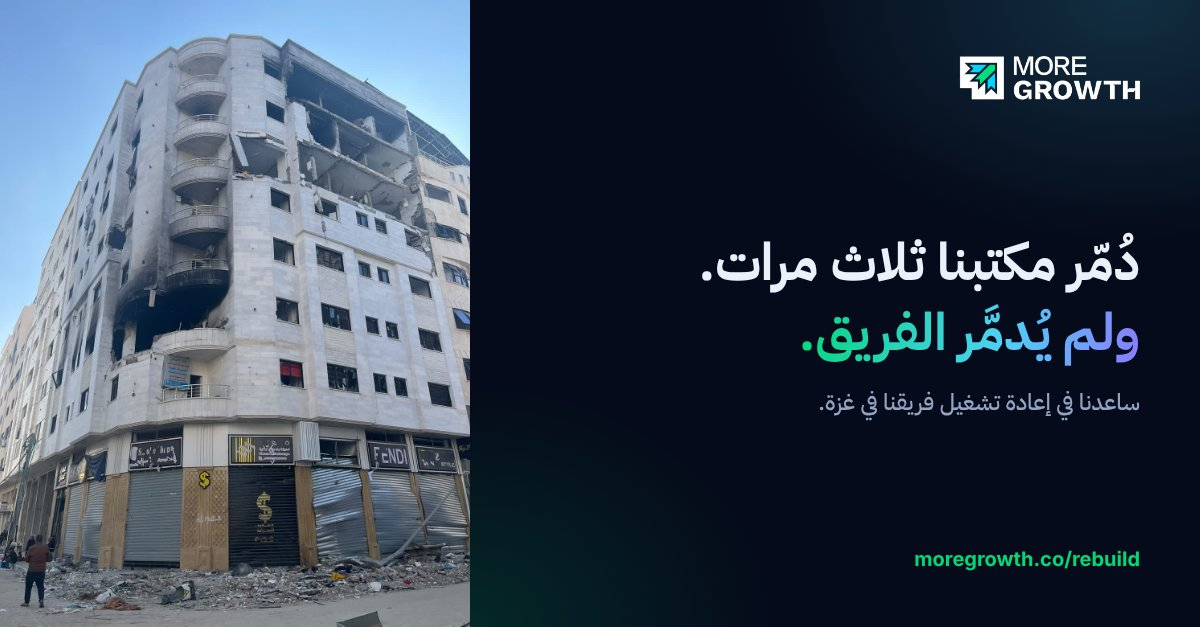
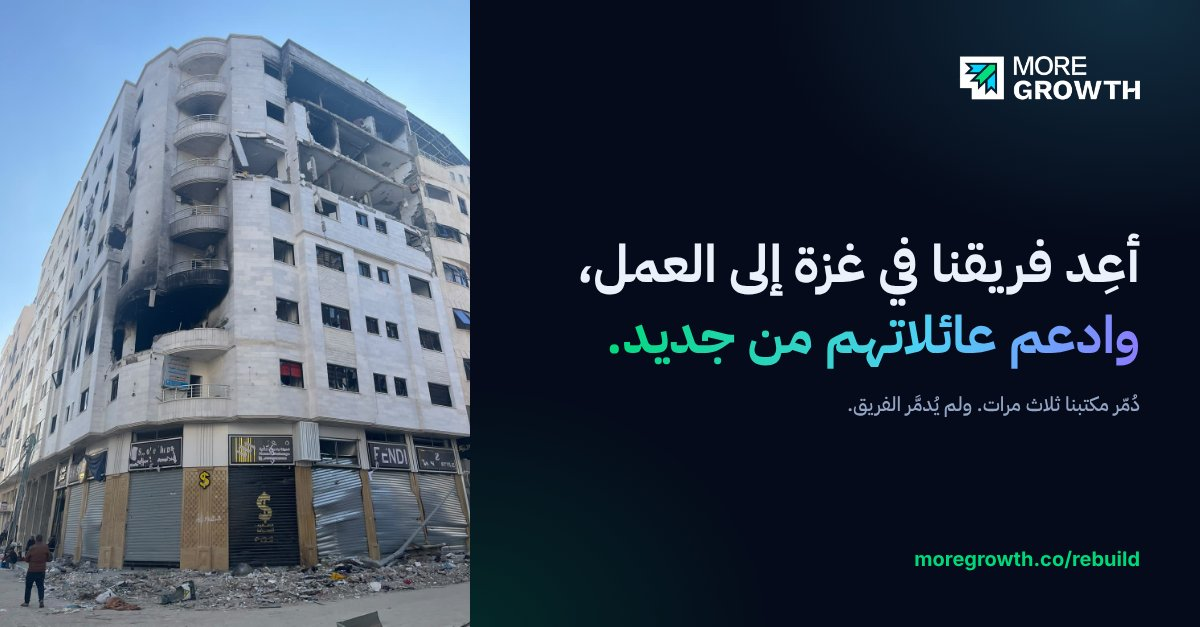
Rebuild hero: call-to-action headline, 'destroyed three times' as subline; refresh share images
Claude-Session: https://claude.ai/code/session_011795yFAXq3G7xLFwbokTXE

Changed region(s): [[0.4625, 0.3636, 0.9558, 0.6061], [0.6783, 0.6364, 0.9558, 0.6667]]

diff --git a/rebuild/index.html b/rebuild/index.html
@@ -65,7 +65,8 @@
   <div class="wrap rb-hero-grid">
     <div>
       <p class="kicker">نعيد البناء</p>
-      <h1>دُمّر مكتبنا ثلاث مرات.<br><span class="grad">ولم يُدمَّر الفريق.</span></h1>
+      <h1>أعِد فريقنا في غزة إلى العمل،<br><span class="grad">وادعم عائلاتهم من جديد.</span></h1>
+      <p class="rb-hsub">دُمّر مكتبنا ثلاث مرات. ولم يُدمَّر الفريق.</p>
       <p class="rb-lead">مورجروث للحلول الرقمية شركة تسويق رقمي من غزة، وشريك معتمد من Google منذ 2020. نجمع 67,200 دولار لتغطية ستة أشهر من التكاليف الجارية، حتى نعيد تشغيل فريقنا في غزة ونقف على أقدامنا من جديد.</p>
       <div class="rb-meter" role="img" aria-label="0 / 67200"><div class="rb-meter-bar"><i style="--w:1%"></i></div><p><b>67,200$</b> · تنطلق الحملة قريبًا</p></div>
       <div class="rb-ctas"><a class="btn btn-primary" href="#support" data-rb-cta>ادعم عودة الفريق <svg class="arrow" viewBox="0 0 24 24" aria-hidden="true" fill="none" stroke="currentColor" stroke-width="2" stroke-linecap="round" stroke-linejoin="round"><path d="M5 12h14M13 6l6 6-6 6"/></svg></a><a class="btn btn-ghost" href="#story">اقرأ قصتنا</a></div>

diff --git a/en/rebuild/index.html b/en/rebuild/index.html
@@ -65,7 +65,8 @@
   <div class="wrap rb-hero-grid">
     <div>
       <p class="kicker">Rebuild MoreGrowth</p>
-      <h1>Our office was destroyed three times.<br><span class="grad">Our team was not.</span></h1>
+      <h1>Bring our Gaza team back to work,<br><span class="grad">and support their families again.</span></h1>
+      <p class="rb-hsub">Our office was destroyed three times. Our team was not.</p>
       <p class="rb-lead">MoreGrowth Digital Solutions is a digital marketing agency from Gaza and a Google Partner since 2020. We are raising $67,200 to cover six months of running costs, so we can restart our Gaza team and stand on our own feet again.</p>
       <div class="rb-meter" role="img" aria-label="0 / 67200"><div class="rb-meter-bar"><i style="--w:1%"></i></div><p><b>$67,200</b> · Campaign opens soon</p></div>
       <div class="rb-ctas"><a class="btn btn-primary" href="#support" data-rb-cta>Back our comeback <svg class="arrow" viewBox="0 0 24 24" aria-hidden="true" fill="none" stroke="currentColor" stroke-width="2" stroke-linecap="round" stroke-linejoin="round"><path d="M5 12h14M13 6l6 6-6 6"/></svg></a><a class="btn btn-ghost" href="#story">Read our story</a></div>

diff --git a/assets/rebuild.css b/assets/rebuild.css
@@ -13,7 +13,7 @@
 /* hero */
 .rb-hero{padding:140px 0 30px}
 .rb-hero-grid{display:grid;grid-template-columns:minmax(0,1.15fr) minmax(0,.85fr);gap:48px;align-items:center}
-.rb-hero h1{font-size:clamp(32px,4.6vw,56px);line-height:1.2;margin:0 0 18px}
+.rb-hero h1{font-size:clamp(30px,4vw,50px);line-height:1.2;margin:0 0 18px}
 .rb-lead{color:var(--muted);font-size:18px;max-width:640px;margin:0 0 26px}
 .rb-meter{max-width:560px;margin:0 0 26px}
 .rb-meter-bar{height:10px;border-radius:99px;background:var(--surface-2,rgba(255,255,255,.08));overflow:hidden;border:1px solid var(--rb-border)}
@@ -121,3 +121,4 @@
   .rb-sec{padding-top:56px}
   .rb-stats>div{padding:16px}
 }
+.rb-hsub{font-size:clamp(19px,2vw,24px);font-weight:700;color:var(--text);margin:0 0 12px;padding-inline-start:14px;border-inline-start:3px solid var(--green)}

diff --git a/_source/rebuild.py b/_source/rebuild.py
@@ -37,7 +37,8 @@ T = {
     title="نعيد البناء | ادعم عودة فريق مورجروث في غزة",
     desc="دُمّر مكتبنا في غزة ثلاث مرات. ساعدنا في تغطية ستة أشهر من التكاليف الجارية لنعيد تشغيل فريقنا ونتوسع في المنطقة العربية.",
     kicker="نعيد البناء",
-    h1="دُمّر مكتبنا ثلاث مرات.<br><span class=\"grad\">ولم يُدمَّر الفريق.</span>",
+    h1="أعِد فريقنا في غزة إلى العمل،<br><span class=\"grad\">وادعم عائلاتهم من جديد.</span>",
+    sub="دُمّر مكتبنا ثلاث مرات. ولم يُدمَّر الفريق.",
     lead="مورجروث للحلول الرقمية شركة تسويق رقمي من غزة، وشريك معتمد من Google منذ 2020. نجمع 67,200 دولار لتغطية ستة أشهر من التكاليف الجارية، حتى نعيد تشغيل فريقنا في غزة ونقف على أقدامنا من جديد.",
     cta="ادعم عودة الفريق", cta2="اقرأ قصتنا",
     raised="جُمع حتى الآن", of="من هدف", supporters="داعمًا", soon="تنطلق الحملة قريبًا",
@@ -86,7 +87,8 @@ T = {
     title="Rebuild MoreGrowth | Help our Gaza team get back to work",
     desc="Our office in Gaza was destroyed three times. Help us cover six months of running costs to restart our team and grow across the Arab region.",
     kicker="Rebuild MoreGrowth",
-    h1="Our office was destroyed three times.<br><span class=\"grad\">Our team was not.</span>",
+    h1="Bring our Gaza team back to work,<br><span class=\"grad\">and support their families again.</span>",
+    sub="Our office was destroyed three times. Our team was not.",
     lead="MoreGrowth Digital Solutions is a digital marketing agency from Gaza and a Google Partner since 2020. We are raising $67,200 to cover six months of running costs, so we can restart our Gaza team and stand on our own feet again.",
     cta="Back our comeback", cta2="Read our story",
     raised="raised so far", of="of", supporters="supporters", soon="Campaign opens soon",
@@ -164,6 +166,7 @@ def body(lang, t):
     <div>
       <p class="kicker">{t["kicker"]}</p>
       <h1>{t["h1"]}</h1>
+      <p class="rb-hsub">{t["sub"]}</p>
       <p class="rb-lead">{t["lead"]}</p>
       <div class="rb-meter" role="img" aria-label="{RAISED} / {GOAL}"><div class="rb-meter-bar"><i style="--w:{max(pct,1)}%"></i></div><p>{meter_txt}</p></div>
       <div class="rb-ctas"><a class="btn btn-primary" href="#support" data-rb-cta>{t["cta"]} {ARROW}</a><a class="btn btn-ghost" href="#story">{t["cta2"]}</a></div>
